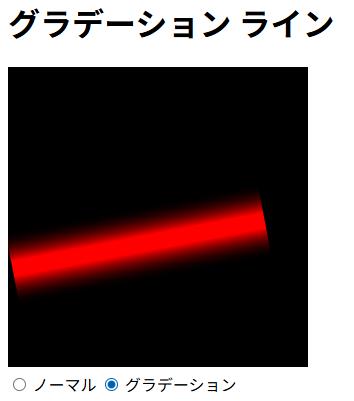
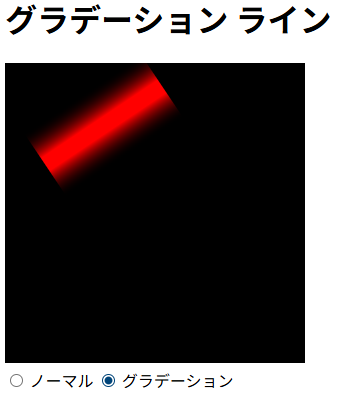
improve 3

Changed region(s): [[0.0, 0.1527, 0.9038, 1.0], [0.0, 0.0, 0.9621, 0.1221]]

diff --git a/index.html b/index.html
@@ -39,8 +39,7 @@
         // ポリゴンで線を描く関数(グラデーション付き)
         const drawLineWithGradation = (ctx, x0, y0, x1, y1, centerColor = null, edgeColor = 'rgba(0, 0, 0, 0%)') => {
             if (!centerColor) centerColor = ctx.strokeStyle;
-            const lineWidth = ctx.lineWidth * 2.5; // グラデーションを付けると細く見えるので補正する
-            const halfWidth = lineWidth / 2;
+            const halfWidth = ctx.lineWidth / 2; // 半分の幅
             // 1. 方向ベクトルの計算
             const dx = x1 - x0, dy = y1 - y0;
             // 2. 法線ベクトルの計算 (時計回りに90度回転)
@@ -121,6 +120,7 @@
             const is_polygon = radios[1].checked;
             ctx.strokeStyle = 'red';
             if (is_polygon) {
+                ctx.lineWidth *= 2.5; // グラデーションを付けると細く見えるので補正する。
                 drawLineWithGradation(ctx, px0, py0, px1, py1);
             } else {
                 drawLine(ctx, px0, py0, px1, py1);
